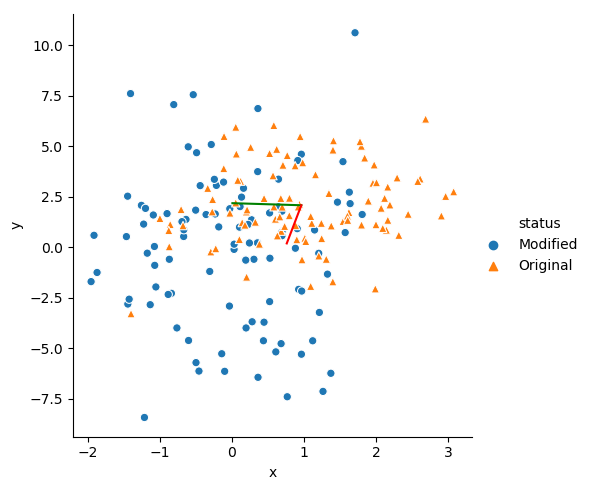
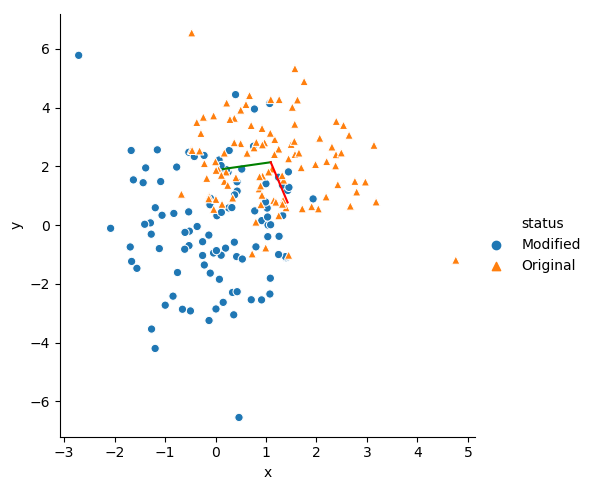
Hw2 final update

diff --git a/hw2/0.py b/hw2/0.py
@@ -1,0 +1,149 @@
+#!/usr/bin/env python3
+# -*- coding: utf-8 -*-
+"""
+Created on Thu Oct 11 17:19:00 2018
+
+@author: anshul
+"""
+
+import numpy as np
+import matplotlib.pyplot as plt
+import scipy.linalg as scisqrt
+
+# initialization of mean and covariance matrix
+mu1= np.matrix([[1], [2]])
+mu2 = np.matrix([[-1], [1]])
+mu3= np.matrix([[2], [-2]])
+
+covar1= np.matrix([[1, 0], [0, 2]])
+covar2 = np.matrix([[2, -1.8], [-1.8, 2]])
+covar3 = np.matrix([[3, 1], [1, 2]])
+
+N=100
+
+# Creating gaussian distribution
+covar1_sqrt = scisqrt.sqrtm(covar1)
+covar1_sqrt = np.asmatrix(covar1_sqrt)
+covar2_sqrt = scisqrt.sqrtm(covar2)
+covar2_sqrt= np.asmatrix(covar2_sqrt)
+covar3_sqrt = scisqrt.sqrtm(covar3)
+covar3_sqrt= np.asmatrix(covar3_sqrt)
+
+Gauss1= (covar1_sqrt) * np.random.randn(2, N) + mu1
+Gauss2= (covar2_sqrt) * np.random.randn(2, N) + mu2
+Gauss3= (covar3_sqrt) * np.random.randn(2, N) + mu3
+print()
+
+
+
+sample_mean1=(1/N) * np.sum(Gauss1, axis=1) # creating mean
+xy1= Gauss1[0,:] * np.transpose(Gauss1[1, :]) # creating xy mean
+sample_mean_xy1= (1/N)*xy1
+G1=Gauss1
+xy1_gauss= np.asarray(G1)
+
+sample_mean2=(1/N) * np.sum(Gauss2, axis=1) # creating sample mean
+xy2= Gauss2[0,:] * np.transpose(Gauss2[1, :])
+sample_mean_xy2= (1/N)*xy2
+G2=Gauss2
+xy2_gauss= np.asarray(G2)
+
+sample_mean3=(1/N) * np.sum(Gauss3, axis=1)
+xy3= Gauss3[0,:] * np.transpose(Gauss3[1, :])
+sample_mean_xy3= (1/N)*xy3
+G3=Gauss3
+xy3_gauss= np.asarray(G3)
+
+mean1= Gauss1 - sample_mean1 # creating xx, yy mean
+mean_xy1= (xy1_gauss[0,:]*xy1_gauss[1,:]) - sample_mean_xy1 # creating xy mean
+fin_mean_xy1= (1/N)*np.sum(mean_xy1, axis=1)
+
+mean2= Gauss2 - sample_mean2
+mean_xy2= (xy2_gauss[0,:]*xy2_gauss[1,:]) - sample_mean_xy2
+fin_mean_xy2= (1/N)*np.sum(mean_xy2, axis=1)
+
+mean3= Gauss3 - sample_mean3
+mean_xy3= (xy3_gauss[0,:]*xy3_gauss[1,:]) - sample_mean_xy3
+fin_mean_xy3= (1/N)*np.sum(mean_xy3, axis=1)
+
+# Creating 2X2 covariance matrix
+sample_covar_mat1=(1/(N-1)) * np.sum(np.square(mean1), axis=1)
+sample_covar_mat2=(1/(N-1)) * np.sum(np.square(mean2), axis=1)
+sample_covar_mat3=(1/(N-1)) * np.sum(np.square(mean3), axis=1)
+
+covariance_mat1=np.matrix([[sample_covar_mat1[0,0], fin_mean_xy1[0,0]],[fin_mean_xy1[0,0],sample_covar_mat1[1,0]]])
+w1, v1 = np.linalg.eig(covariance_mat1) # Eigenvalues and eigenvectors
+print ("Eigen vectors of Covariance matrix 1 is: ", v1)
+
+
+covariance_mat2=np.matrix([[sample_covar_mat2[0,0], fin_mean_xy2[0,0]],[fin_mean_xy2[0,0],sample_covar_mat2[1,0]]])
+w2, v2 = np.linalg.eig(covariance_mat2)
+print ("Eigen vectors of Covariance matrix 2 is: ", v2)
+
+covariance_mat3=np.matrix([[sample_covar_mat3[0,0], fin_mean_xy3[0,0]],[fin_mean_xy3[0,0],sample_covar_mat3[1,0]]])
+w3, v3 = np.linalg.eig(covariance_mat3)
+print ("Eigen vectors of Covariance matrix 3 is: ", v3)
+
+# Creating initial point as mean
+eig_val_sqrt1= np.sqrt(w1)
+v1[0, 0] = eig_val_sqrt1[0,]* v1[0, 0]
+v1[1, 1] = eig_val_sqrt1[1,] * v1[1, 1]
+add_v1= v1 + sample_covar_mat1
+new_eig_vect1= np.concatenate((sample_covar_mat1, add_v1), axis=1)
+
+eig_val_sqrt2= np.sqrt(w2)
+v2[0, 0] = eig_val_sqrt2[0,]* v2[0, 0]
+v2[1, 1] = eig_val_sqrt2[1,] * v2[1, 1]
+add_v2= v2 + sample_covar_mat2
+new_eig_vect2= np.concatenate((sample_covar_mat2, add_v2), axis=1)
+
+eig_val_sqrt3= np.sqrt(w3)
+v3[0, 0] = eig_val_sqrt1[0,]* v3[0, 0]
+v3[1, 1] = eig_val_sqrt1[1,] * v3[1, 1]
+add_v3= v1 + sample_covar_mat3
+new_eig_vect3= np.concatenate((sample_covar_mat3, add_v3), axis=1)
+
+# Ploting the points eigen vectors:
+
+
+#plt.show()
+
+x1_row1= (1/eig_val_sqrt1[0,]) * (sample_mean1[0, 0]) * mean1[0, 🙂
+x1_row2 = (1/eig_val_sqrt1[1,]) * (sample_mean1[1, 0]) * mean1[1, 🙂
+new_X_gauss1= np.concatenate((x1_row1, x1_row2), axis=0)
+
+
+plt.figure()
+plt.xlim(-10, 10)
+plt.ylim(-10, 10)
+plt.scatter([np.transpose(Gauss1[0,:])], [np.transpose(Gauss1[1,:])], marker="^")
+plt.plot(np.transpose(new_eig_vect1[0, :2]), np.transpose(new_eig_vect1[1, :2]), color='r', linewidth=2.0)
+plt.plot(np.transpose(new_eig_vect1[0, ::2]), np.transpose(new_eig_vect1[1, ::2]), color='b', linewidth=2.0)
+plt.scatter([np.transpose(new_X_gauss1[0,:])], [np.transpose(new_X_gauss1[1,:])], marker="o")
+
+x2_row1= (1/eig_val_sqrt2[0,]) * (sample_mean2[0, 0]) * mean2[0, 🙂
+x2_row2 = (1/eig_val_sqrt2[1,]) * (sample_mean2[1, 0]) * mean2[1, 🙂
+new_X_gauss2= np.concatenate((x2_row1, x2_row2), axis=0)
+
+
+plt.figure()
+plt.xlim(-10, 10)
+plt.ylim(-10, 10)
+plt.scatter([np.transpose(Gauss2[0,:])], [np.transpose(Gauss2[1,:])], marker="^")
+plt.plot(np.transpose(new_eig_vect2[0, :2]), np.transpose(new_eig_vect2[1, :2]), color='r', linewidth=2.0)
+plt.plot(np.transpose(new_eig_vect2[0, ::2]), np.transpose(new_eig_vect2[1, ::2]), color='b', linewidth=2.0)
+plt.scatter([np.transpose(new_X_gauss2[0,:])], [np.transpose(new_X_gauss2[1,:])], marker="o")
+
+
+x3_row1= (1/eig_val_sqrt3[0,]) * (sample_mean3[0, 0]) * mean3[0, 🙂
+x3_row2 = (1/eig_val_sqrt3[1,]) * (sample_mean3[1, 0]) * mean3[1, 🙂
+new_X_gauss3= np.concatenate((x3_row1, x3_row2), axis=0)
+
+
+plt.figure()
+plt.xlim(-15, 15)
+plt.ylim(-15, 15)
+plt.scatter([np.transpose(Gauss3[0,:])], [np.transpose(Gauss3[1,:])], marker="^")
+plt.plot(np.transpose(new_eig_vect3[0, :2]), np.transpose(new_eig_vect3[1, :2]), color='r', linewidth=2.0)
+plt.plot(np.transpose(new_eig_vect3[0, ::2]), np.transpose(new_eig_vect3[1, ::2]), color='b', linewidth=2.0)
+plt.scatter([np.transpose(new_X_gauss3[0,:])], [np.transpose(new_X_gauss3[1,:])], marker="o")

diff --git a/hw2/coding_part.py b/hw2/coding_part.py
@@ -67,21 +67,30 @@ def feature_transform(xs,p):
         xr.append(x)
         #print(g.shape)
     return xr
-def plotter(data):
-    a = sns.relplot(kind = "line",data=pa.DataFrame(data))
-    a.set_xlabels('Feature Vector Length P')
-    a.set_ylabels('Accuracy of the Model')
-    a.savefig('Final_Question.png')
+def plotter(data, y =0):
+    if y == 0:
+        a = sns.relplot(kind = "line",data=pa.DataFrame(data))
+        a.set_xlabels('Feature Vector Length P')
+        a.set_ylabels('Accuracy of the Model')
+        a.savefig('Final_Question.png')
+    else:
+        data = pa.DataFrame(data)
+        a = sns.relplot(kind = "line",data=data)
+        a.set_xticklabels(y)
+        a.set_xlabels('Feature Vector Length P')
+        a.set_ylabels('Accuracy of the Model')
+        a.savefig('Final_Question.png')
     #plt.show()
 
 def model_validation(train_data, train_label, valid_data, valid_label):
     result1,result2 = [], []
     labels = onehot([train_label,valid_label,],classes)
     # print(train_data.shape,valid_data.shape)
+    y_axis = []
     valid_old = 10000
     train_old = 10000
     index = 0
-    for p in tqdm(range(1500,6000)):
+    for p in tqdm(range(1500,6000,100)):
         #print(train_data.shape)
         data = feature_transform([train_data,valid_data],p+1)
         #print ('#',train_data_t.shape)
@@ -94,13 +103,16 @@ def model_validation(train_data, train_label, valid_data, valid_label):
         result1.append(acc_train)
         result2.append(acc_valid)
         index  = p
-        if abs(acc_valid-valid_old)<0.1:
+        if abs(acc_valid-valid_old)<0.001:
             break
-        # valid_old = acc_valid
+        #valid_old = acc_valid
+        y_axis.append(p)
+    #print (p)
+
 
     result1 = np.array(result1)
     result2 = np.array(result2)
-    plotter({"Training Accuracy":result1,"Validation Accuracy":result2})
+    plotter({"Training Accuracy":result1,"Validation Accuracy":result2},y_axis)
     #print ("##########################",result.shape)
     # plt.plot(result1)
     # plt.plot(result2)

diff --git a/hw2/gaussian.py b/hw2/gaussian.py
@@ -1,6 +1,7 @@
 import numpy as np
 import matplotlib.pyplot as plt
 import matplotlib.lines as lines
+import scipy
 import seaborn as sns
 import pandas as pa
 import itertools
@@ -11,7 +12,7 @@ def Generate():
     num = []
     for i,(m,s) in enumerate(zip(mu,sigma)):
         a = np.random.randn(2,100)
-        points = s@a+np.reshape(m,(2,1))
+        points = scipy.linalg.sqrtm(s)@a+np.reshape(m,(2,1))
         #points=points+np.reshape(m,(2,1))
         #plot = sns.relplot(x = "x", y = "y",data = data, marker = '^', style = 'status')
         #plots.append(plot)
@@ -52,14 +53,15 @@ def scatter(num,stats,eigen,eigenv):
 def plot(plots,eigen,eigenv):
     for i,((mean,covar),plot,eig,eigv) in enumerate(zip(stats,plots,eigen,eigenv)):
         l1 = lines.Line2D([mean[0],mean[0]+np.sqrt(eig[0])*eigv[0][0]],[mean[1],mean[1]+np.sqrt(eig[0])*eigv[1][0]],color = 'g')
-        l2 = lines.Line2D([mean[0],mean[0]+np.sqrt(eig[1])*eigv[0][1]],[mean[1],mean[1]+np.sqrt(eig[1])*eigv[1][1]],color='p')
+        l2 = lines.Line2D([mean[0],mean[0]+np.sqrt(eig[1])*eigv[0][1]],[mean[1],mean[1]+np.sqrt(eig[1])*eigv[1][1]],color='r')
         plot.ax.add_line(l1)
         plot.ax.add_line(l2)
+        plt.xlim(-15, 15)
         plot.savefig("Question1-"+str(i)+".png")
 
 if __name__ == "__main__":
     num = Generate()
     stats = stats(num)
     eigen,eigenv = eigen(stats)
-    plots = rescatter(num,stats,eigen,eigenv)
+    plots = scatter(num,stats,eigen,eigenv)
     plot(plots,eigen,eigenv)
